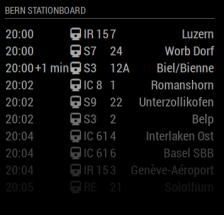
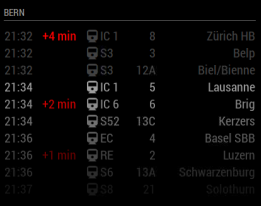
Updated Layout, displayed delay in red and connections that are not reachable in dark grey

diff --git a/MMM-SwissStationboard.js b/MMM-SwissStationboard.js
@@ -107,8 +107,8 @@ Module.register("MMM-SwissStationboard",{
 			depCell.className = "align-left departuretime";
 			depCell.innerHTML = trains.departureTimestamp;
 
-			if (diff <= this.config.minWalkingTime ){
-				row.className = "red";
+			if (diff < this.config.minWalkingTime ){
+				row.className = "darkgrey";
 			}
 
 			row.appendChild(depCell);
@@ -134,7 +134,8 @@ Module.register("MMM-SwissStationboard",{
             if (!this.config.hideTrackInfo) {
 	            var trackCell = document.createElement("td");
     	        trackCell.innerHTML = trains.track;
-        	    if(trains.trackChange) trackCell.className = "track red";
+				trackCell.className = "align-right";
+        	    if(trains.trackChange) trackCell.className = "align-right track red";
             	row.appendChild(trackCell);
             }
 

diff --git a/MMM-SwissStationboard.css b/MMM-SwissStationboard.css
@@ -1,24 +1,27 @@
 /*
  *
- * MMM-SwissCommute by nixnuex
+ * MMM-SwissStationboard by vanhoekd
  *
  * MIT Licensed.
  *
  */
 
-.MMM-SwissCommute {
-  font-size: 75%;
-  line-height: 65px;
-  display: inline-block;
+.MMM-SwissStationboard {
+  font-size: 65%;
+  //line-height: 65px;
   -ms-transform: translate(0, -3px); /* IE 9 */
   -webkit-transform: translate(0, -3px); /* Safari */
   transform: translate(0, -3px);
 }
 
-.MMM-SwissCommute table {
-    width: 350px;
+.MMM-SwissStationboard table {
+    width: 400px;
 }
 
-.MMM-SwissCommute .red {
+.MMM-SwissStationboard .red {
     color: #FF0000
+}
+
+.MMM-SwissStationboard .darkgrey {
+    color: #424242
 }

diff --git a/README.md b/README.md
@@ -50,7 +50,7 @@ modules: [
 |----------------- |-----------
 | `stop`        | *Required* Departure station or its ID. can by found through <https://fahrplan.search.ch/api/stationboard.json?limit=1&stop=Einsiedeln>
 | `maximumEntries `        | *Optional* Maximum number of entries in list <br><br>**Type:** `int` <br>Default 10
-| `minWalkingTime `        | *Optional* Minimum time in minutes to reach the `stop` station. Used to highlight a connection in red in case cannot be reached in time <br><br>**Type:** `int` <br>Default -1
+| `minWalkingTime `        | *Optional* Minimum time in minutes to reach the `stop` station. Used to display the connection in dark grey in case it is not reachable in time<br><br>**Type:** `int` <br>Default -1
 | `hideTrackInfo`        | *Optional* Hide the track column <br><br>**Type:** `int` <br>Default 0
 
 ## Dependencies
